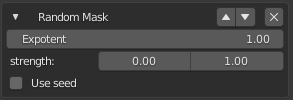
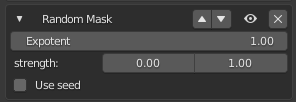
Add option to hide UV mask effect.

diff --git a/mcblend/panel.py b/mcblend/panel.py
@@ -36,6 +36,8 @@ class OBJECT_NusiqMcblendColorProperties(bpy.types.PropertyGroup):
 # UV-mask properties
 class OBJECT_NusiqMcblendUvMaskProperties(bpy.types.PropertyGroup):
     '''Properties of UV-mask.'''
+    ui_hidden: BoolProperty(  # type: ignore
+        name='Hide', default=False)
     ui_collapsed: BoolProperty(  # type: ignore
         name='Collapse', default=False)
     mask_type: EnumProperty(  # type: ignore
@@ -511,6 +513,7 @@ class OBJECT_PT_NusiqMcblendUVGroupPanel(bpy.types.Panel):
             # box.scale_x = True
             col = box.column()
             row = col.row()
+
             if mask.ui_collapsed:
                 row.prop(
                     mask, "ui_collapsed", text="", icon='DISCLOSURE_TRI_RIGHT',
@@ -535,6 +538,15 @@ class OBJECT_PT_NusiqMcblendUVGroupPanel(bpy.types.Panel):
                     text='')
                 op_props.move_from = index
                 op_props.move_to = index + 1
+            # Hide button
+            if mask.ui_hidden:
+                row.prop(
+                    mask, "ui_hidden", text="", icon='HIDE_ON',
+                    emboss=False)
+            else:
+                row.prop(
+                    mask, "ui_hidden", text="", icon='HIDE_OFF',
+                    emboss=False)
             # Delete button
             op_props = row.operator(
                 "object.nusiq_mcblend_remove_uv_mask", icon='X', text='')

diff --git a/mcblend/operator_func/texture_generator.py b/mcblend/operator_func/texture_generator.py
@@ -145,6 +145,16 @@ class MultiplicativeMask(Mask):
     def get_mask(self, image: np.array) -> np.array:
         '''Returns 2D matrix with the filter array.'''
 
+
+class DummyMask(MultiplicativeMask):
+    '''
+    A multiplicative mask that always return a white image.
+    '''
+    def get_mask(self, image):
+        w, h, _ = image.shape
+        return np.ones((w, h))[:,:, np.newaxis]
+    
+
 class Stripe(NamedTuple):
     '''
     Stripes are used in StripesMask and ColorPaletteMask mask in a collection
@@ -620,7 +630,10 @@ def get_masks_from_side(side) -> Sequence[Mask]:
                     mode=s_props.mode)
             else:
                 raise ValueError('Unknown mask type')
-            result.append(mask)
+            if s_props.ui_hidden:
+                result.append(DummyMask())
+            else:
+                result.append(mask)
         return tuple(result)
 
     return  _get_masks_from_side(iter(side), n_steps=len(side))

diff --git a/mcblend/__init__.py b/mcblend/__init__.py
@@ -65,7 +65,7 @@ bl_info = {
     "author": "Artur",
     "description": "",
     "blender": (2, 80, 0),
-    "version": (5, 0, 4),  # COMPATIBILITY BREAKING CHANGE, NEW FEATURE, BUGFIX
+    "version": (5, 1, 0),  # COMPATIBILITY BREAKING CHANGE, NEW FEATURE, BUGFIX
     "location": "",
     "warning": "",
     "category": "Generic"

diff --git a/docs/texture_customization/index.md b/docs/texture_customization/index.md
@@ -15,6 +15,12 @@ sides (side1-6) are corelated to their placement on the texture.
 New masks are added with "Add mask" dropdown menu. There are 8 different types
 of masks.
 
+
+!!! note
+
+    All masks have an eye icon in the upper right corner that can be used to
+    temporarily disable / enable the mask.
+
 ## Color Palette Mask
 ![](../img/color_palette_mask.png)
 
